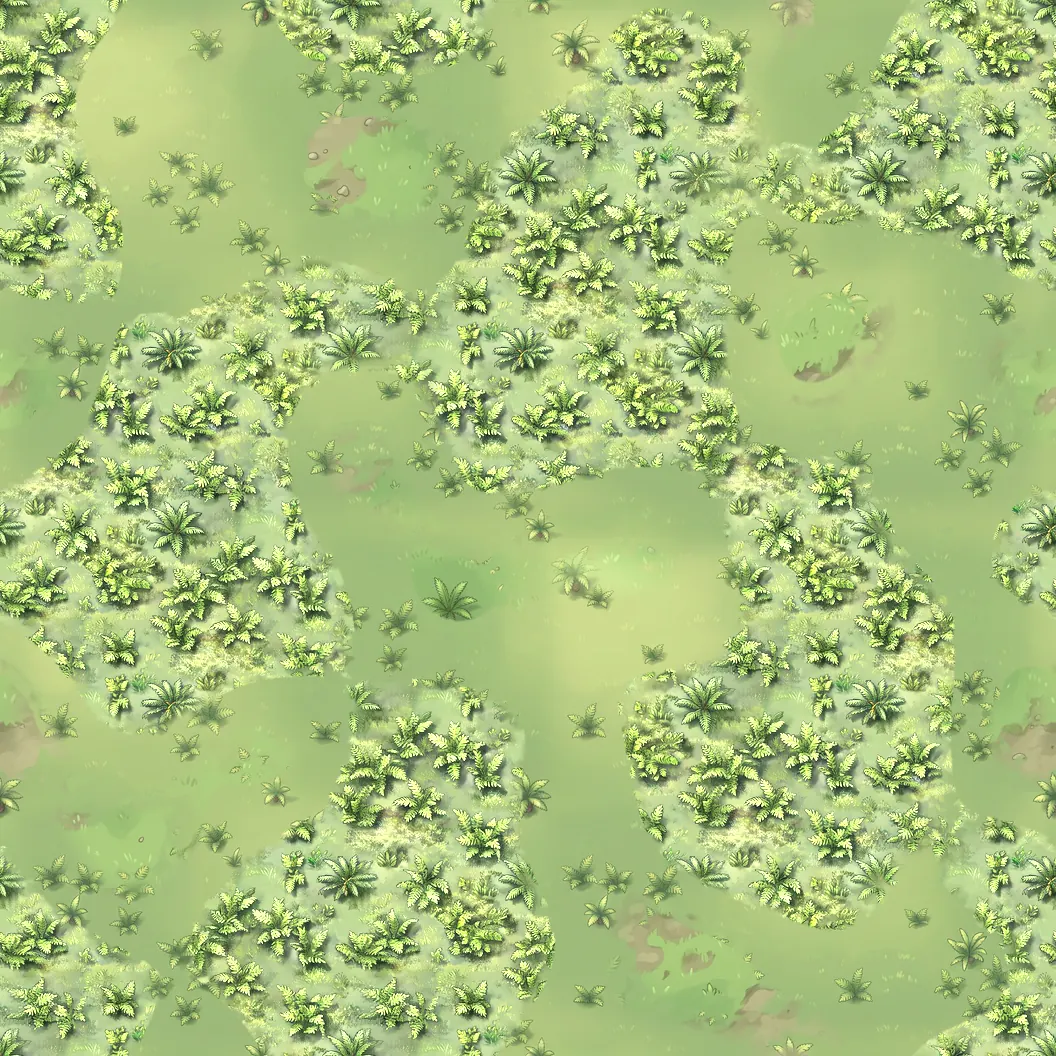
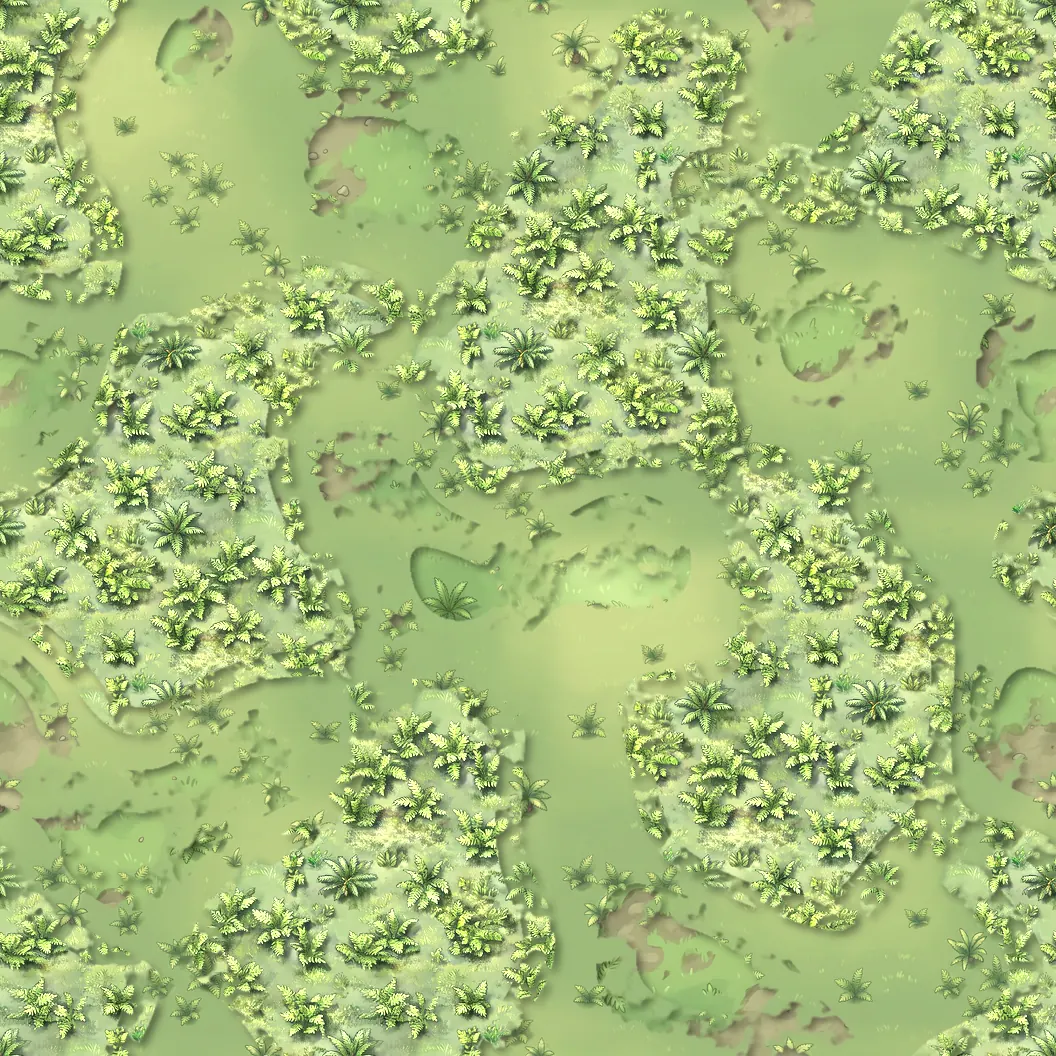
A denser patch's edge follows its treetops (its ground near the edge left out), and its trees cast a shadow on the clearing below them
Claude-Session: https://claude.ai/code/session_014mPV2zL44TcDQaUfxc49uR

diff --git a/scripts/texture.py b/scripts/texture.py
@@ -95,12 +95,19 @@ else:
         green = big[..., 1] - (big[..., 0] + big[..., 2]) / 2
         tall = ndimage.gaussian_filter((green - green.mean()) / (green.std() + 1e-6), 2, mode='wrap')
         crowns = np.clip((tall + 0.15) * 3, 0, 1)
-        # (whole in the middle of its patch, its crowns only towards the rim, and nothing past it)
-        core = np.clip((wgt - 0.55) * 4, 0, 1)
+        # (whole in the middle of its patch, its crowns only towards the rim, and nothing past it; the
+        # middle's own edge follows its treetops: its ground near the edge is left out, so the edge is the
+        # outline of trees, never a soft line across the ground)
+        inside = wgt > 0.75
+        depth = ndimage.distance_transform_edt(inside)
+        core = inside & ((depth > 14) | (crowns > 0.5))
         rim = np.clip(wgt * 4, 0, 1)
-        m = np.maximum(core, rim * crowns)
-        m = ndimage.gaussian_filter(m, 0.8, mode='wrap')[..., None]
-        out = big * m + out * (1 - m)
+        m = np.maximum(core.astype(np.float32), rim * crowns)
+        m = ndimage.gaussian_filter(m, 0.7, mode='wrap')
+        # the trees' shadow cast on the ground below them, towards the bottom right (light from the top-left)
+        shade = np.roll(ndimage.gaussian_filter(m, 4, mode='wrap'), (5, 5), (0, 1)) * (1 - m) * 0.45
+        out = out * (1 - shade[..., None])
+        out = big * m[..., None] + out * (1 - m[..., None])
 
 pic = Image.fromarray(out.clip(0, 255).astype(np.uint8))
 path = f'images/terrain/{a.biome}.webp'
